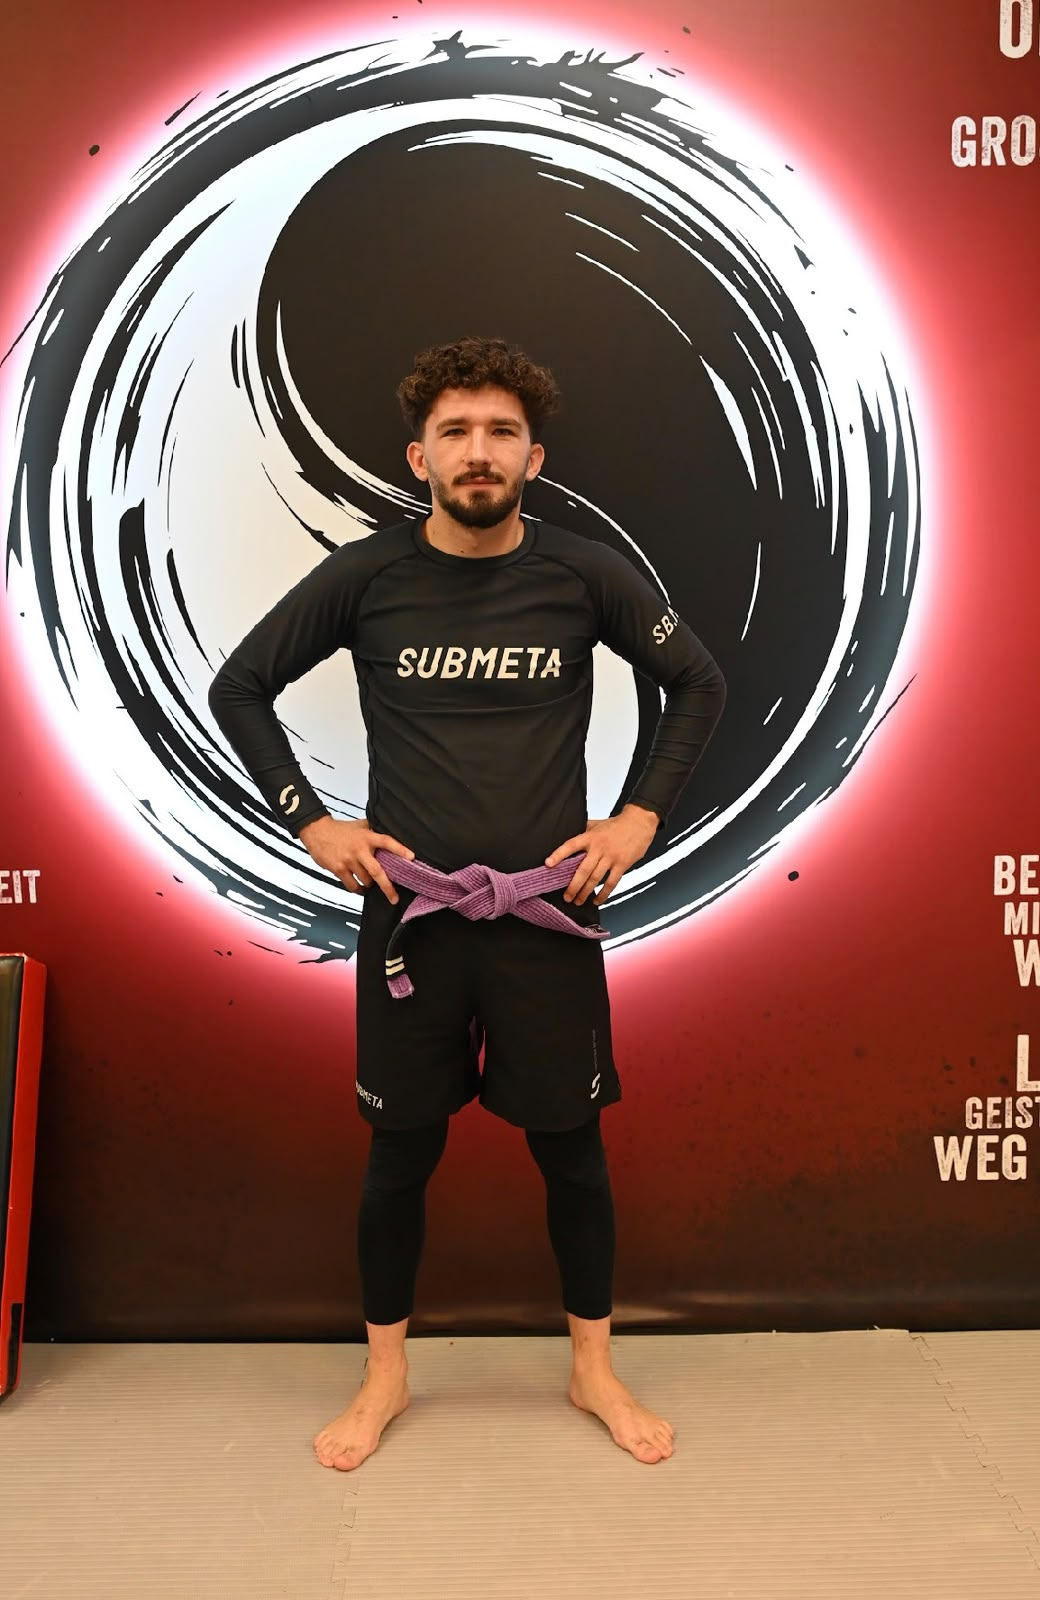
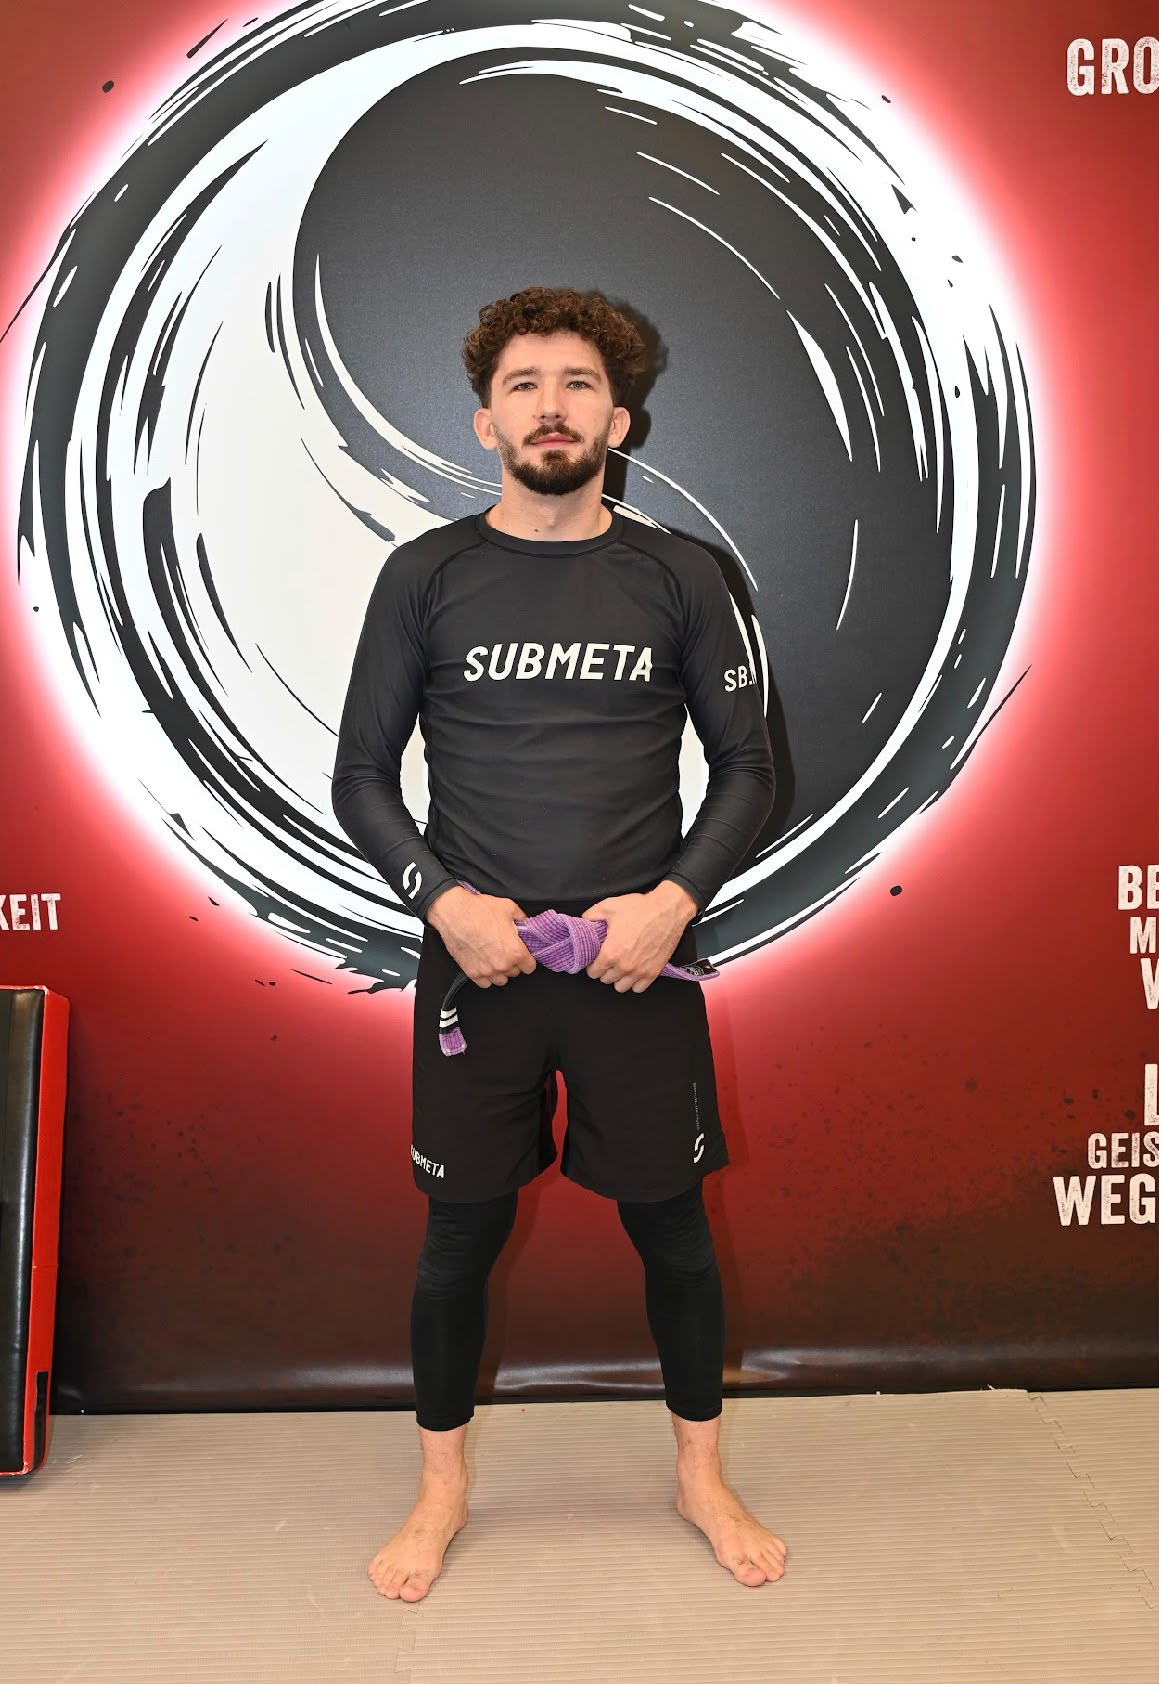
feat(programme+plan): echter Trainerplan, Stufen statt Gi/No-Gi, hellere Coach-Fotos
- Programme: sechs erfundene Kurse raus, neun echte rein (Anfängerkurs,
  Intermediate, Advanced Training, Ringen für BJJ, Sparring,
  Wettkampftraining, Fitness, Fitnessboxen, Open Mat). Kinder- und
  Frauenklasse entfernt — der Trainerplan hat beides nicht.
- Wochenplan: zwei Kursschienen pro Werktag (17:45–19:00 / 19:05–20:20)
  plus Open Mat am Samstag, je mit Kurznotiz. Die Legende sagt jetzt die
  Einstiegsstufe statt des Formats; Gi/No-Gi steht in der Notiz.
- Matte frei und Dehnen als Fußnote unter dem Plan, nicht als Zeilen —
  es sind keine Kurse.
- FAQ und SEO-Keywords entsprechend nachgezogen.
- Coach-Fotos Ervin und Liri gegen die helleren Aufnahmen getauscht.

Claude-Session: https://claude.ai/code/session_01ST7FeiZA5UtjpjXrkmcRCG

diff --git a/lib/config.ts b/lib/config.ts
@@ -82,108 +82,141 @@ export const reasons = [
  */
 export const programs = [
   {
-    title: "Fundamentals",
+    title: "Anfängerkurs",
     kanji: "基本",
-    level: "Weiß → Blau",
+    level: "Ohne Vorkenntnisse",
     blurb:
-      "Hier fängst du an. Vorkenntnisse braucht es keine.",
+      "Dienstag, im Gi. Hier fängst du an — Vorkenntnisse braucht es keine.",
     tag: "Einsteiger",
   },
   {
-    title: "Advanced Gi",
+    title: "Intermediate",
+    kanji: "中級",
+    level: "Ab Intermediate",
+    blurb:
+      "Donnerstag, im Gi. Baut direkt auf den Anfängerkurs auf.",
+    tag: "Aufbau",
+  },
+  {
+    title: "Advanced Training",
     kanji: "上級",
-    level: "Ab Blau",
+    level: "Ab Advanced",
     blurb:
-      "Systeme, harte Runden, ein schärferes A-Game.",
-    tag: "Alle Gürtel",
+      "Mittwoch No-Gi, Freitag Gi. Systeme, harte Runden, ein schärferes A-Game.",
+    tag: "Fortgeschritten",
   },
   {
-    title: "No-Gi / Grappling",
-    kanji: "寝技",
-    level: "Alle Stufen",
+    title: "Ringen für BJJ",
+    kanji: "立技",
+    level: "Ab Intermediate",
     blurb:
-      "Schnell und modern. Wrestling, Scrambles, Leg Locks.",
-    tag: "Alle Stufen",
+      "Montag. Takedowns, Griffkampf, der Weg zu Boden.",
+    tag: "Standkampf",
   },
   {
-    title: "Wettkampfteam",
+    title: "Sparring",
+    kanji: "乱取",
+    level: "Ab Intermediate",
+    blurb:
+      "Montag nur Rollen, Dienstag freies Positionssparring. Kein Unterricht, nur Mattenzeit.",
+    tag: "Rollen",
+  },
+  {
+    title: "Wettkampftraining",
     kanji: "試合",
-    level: "Auf Einladung",
+    level: "Ab Advanced",
     blurb:
-      "Camps, harte Runden, Podeste.",
+      "Mittwoch. Für Turnierkämpfer und das Team.",
     tag: "Athleten",
   },
   {
-    title: "Kinder & Jugend",
-    kanji: "少年",
-    level: "4 bis 15 Jahre",
-    blurb:
-      "Selbstvertrauen, Disziplin, kein Mobbing.",
-    tag: "Jugend",
-  },
-  {
-    title: "Frauenklasse",
-    kanji: "女子",
+    title: "Fitness",
+    kanji: "体力",
     level: "Alle Stufen",
     blurb:
-      "Nur Frauen. Selbstverteidigung im Kern.",
-    tag: "Nur Frauen",
+      "Donnerstag. Kraft und Kondition, ganz ohne Kampfsport.",
+    tag: "Kraft",
+  },
+  {
+    title: "Fitnessboxen",
+    kanji: "拳闘",
+    level: "Alle Stufen",
+    blurb:
+      "Freitag. Boxtechnik, Pratzen, Kondition.",
+    tag: "Boxen",
+  },
+  {
+    title: "Open Mat",
+    kanji: "自由",
+    level: "Alle Stufen",
+    blurb:
+      "Samstag, Gi und No-Gi. Freies Rollen für alle, kein Unterricht.",
+    tag: "Samstag",
   },
 ] as const;
 
 export type ScheduleClass = {
   time: string;
   name: string;
-  kind: "gi" | "nogi" | "kids" | "open";
+  /** Einzeiler unter dem Namen — Format, Inhalt, Zielgruppe. */
+  note?: string;
+  kind: "anfaenger" | "intermediate" | "advanced" | "fitness" | "boxen";
 };
+
+/**
+ * Der Wochenplan, wie ihn der Trainer aufgestellt hat.
+ *
+ * Zwei Kursschienen pro Werktag (17:45–19:00 und 19:05–20:20) plus Open Mat
+ * am Samstag. `kind` ist KEIN Format mehr (Gi/No-Gi), sondern die EINSTIEGS-
+ * STUFE: die Farbe sagt, ab welchem Level man in der Einheit richtig ist.
+ * Ob Gi oder No-Gi steht in `note`, weil es die zweite Frage ist, nicht die
+ * erste.
+ *
+ * Matte frei ab 16:30 (Di/Do 16:45) und Dehnen 17:15 (Mo/Mi/Fr) stehen
+ * bewusst NICHT als Zeilen hier: es sind keine Kurse, sondern offene Zeit vor
+ * dem Training. Sie laufen als Fußnote unter dem Plan — siehe
+ * components/schedule.tsx.
+ */
 export const schedule: { day: string; classes: ScheduleClass[] }[] = [
   {
     day: "Mo",
     classes: [
-      { time: "07:00", name: "Morning Gi", kind: "gi" },
-      { time: "17:30", name: "Kids", kind: "kids" },
-      { time: "19:00", name: "Fundamentals", kind: "gi" },
-      { time: "20:15", name: "Advanced Gi", kind: "gi" },
+      { time: "17:45–19:00", name: "Ringen für BJJ", note: "Takedowns & Standkampf", kind: "intermediate" },
+      { time: "19:05–20:20", name: "Sparring only", note: "Nur Rollen, kein Unterricht", kind: "intermediate" },
     ],
   },
   {
     day: "Di",
     classes: [
-      { time: "12:00", name: "No-Gi Lunch", kind: "nogi" },
-      { time: "18:00", name: "Women's Class", kind: "gi" },
-      { time: "19:30", name: "No-Gi", kind: "nogi" },
+      { time: "17:45–19:00", name: "Anfängerkurs", note: "Gi · für alle ohne Vorkenntnisse", kind: "anfaenger" },
+      { time: "19:05–20:20", name: "Special Tuesday", note: "Freies Positionssparring", kind: "intermediate" },
     ],
   },
   {
     day: "Mi",
     classes: [
-      { time: "07:00", name: "Morning Gi", kind: "gi" },
-      { time: "17:30", name: "Kids", kind: "kids" },
-      { time: "19:00", name: "Fundamentals", kind: "gi" },
-      { time: "20:15", name: "Competition", kind: "nogi" },
+      { time: "17:45–19:00", name: "Advanced Training", note: "No-Gi", kind: "advanced" },
+      { time: "19:05–20:20", name: "Wettkampftraining", note: "Turnierkämpfer & Team", kind: "advanced" },
     ],
   },
   {
     day: "Do",
     classes: [
-      { time: "12:00", name: "No-Gi Lunch", kind: "nogi" },
-      { time: "19:00", name: "Advanced Gi", kind: "gi" },
-      { time: "20:15", name: "Open Mat", kind: "open" },
+      { time: "17:45–19:00", name: "Fitness", note: "Kraft & Kondition, ohne Kampfsport", kind: "fitness" },
+      { time: "19:05–20:20", name: "Intermediate", note: "Gi · Aufbau auf den Anfängerkurs", kind: "intermediate" },
     ],
   },
   {
     day: "Fr",
     classes: [
-      { time: "17:30", name: "Kids", kind: "kids" },
-      { time: "19:00", name: "Fundamentals", kind: "gi" },
-      { time: "20:15", name: "No-Gi", kind: "nogi" },
+      { time: "17:45–19:00", name: "Advanced Training", note: "Gi", kind: "advanced" },
+      { time: "19:05–20:20", name: "Fitnessboxen", note: "Boxtechnik, Pratzen & Kondition", kind: "boxen" },
     ],
   },
   {
     day: "Sa",
     classes: [
-      { time: "10:00", name: "Competition", kind: "nogi" },
-      { time: "11:30", name: "Open Mat", kind: "open" },
+      { time: "11:00–12:30", name: "Open Mat", note: "Gi & No-Gi · freies Rollen für alle", kind: "anfaenger" },
     ],
   },
 ];
@@ -236,7 +269,7 @@ export const faqs = [
   {
     question: "Ich habe noch nie trainiert. Ist das ein Problem?",
     answer:
-      "Im Gegenteil, das ist der Normalfall. Die Fundamentals-Stunden sind für komplette Anfänger gebaut. Du bekommst geduldige Trainingspartner und wirst am ersten Tag in kein hartes Sparring geworfen.",
+      "Im Gegenteil, das ist der Normalfall. Der Anfängerkurs am Dienstag ist für komplette Anfänger gebaut. Du bekommst geduldige Trainingspartner und wirst am ersten Tag in kein hartes Sparring geworfen.",
   },
   {
     question: "Was brauche ich für die erste Einheit?",
@@ -249,9 +282,9 @@ export const faqs = [
       "Nein. Jiu-Jitsu bringt dich in Form, nicht umgekehrt. Du bestimmst das Tempo, und jede Runde holt dich dort ab, wo du gerade stehst.",
   },
   {
-    question: "Ab welchem Alter dürfen Kinder mittrainieren?",
+    question: "Wann kann ich als Anfänger einsteigen?",
     answer:
-      "Kinder & Jugend läuft von 4 bis 15, in altersgerechten Gruppen mit eigenen Jugendtrainern.",
+      "Am Dienstag um 17:45 im Anfängerkurs. Ab dann bist du auch beim Intermediate am Donnerstag richtig, das baut direkt darauf auf. Die Matte ist übrigens schon ab 16:30 offen, wenn du vorher selbst drillen willst.",
   },
   {
     question: "Gibt es einen langen Vertrag?",

diff --git a/components/schedule.tsx b/components/schedule.tsx
@@ -37,11 +37,26 @@ import { KanjiLabel } from "@/components/kanji-label";
 import StaggeredText from "@/components/staggered-text";
 import ClickStack, { type ClickStackHandle } from "@/components/click-stack";
 
+/**
+ * Die Legende sagt jetzt die EINSTIEGSSTUFE, nicht das Format.
+ *
+ * Vorher standen hier Gi / No-Gi / Kids / Open Mat. Das beantwortet die
+ * zweite Frage ("was ziehe ich an") und nicht die erste ("darf ich da
+ * überhaupt hin"). Der Trainerplan ist nach Stufen gebaut, also ist die
+ * Seite es jetzt auch: die Farbe am linken Rand einer Einheit sagt, ab
+ * welchem Level sie offen ist. Gi oder No-Gi steht als Notiz in der Zeile.
+ *
+ * Die drei BJJ-Stufen steigen in der Hitze der Palette an (Gold → Ember →
+ * Zinnober). Fitness und Fitnessboxen sind kein BJJ und bekommen deshalb
+ * bewusst kühle, entsättigte Töne — sie sollen sich aus der Stufenleiter
+ * herausheben, nicht in ihr einsortiert wirken.
+ */
 const KIND: Record<ScheduleClass["kind"], { label: string; tone: string }> = {
-  gi:   { label: "Gi",       tone: "var(--accent)" },
-  nogi: { label: "No-Gi",    tone: "var(--ember)" },
-  kids: { label: "Kids",     tone: "var(--gold)" },
-  open: { label: "Open Mat", tone: "var(--muted-foreground)" },
+  anfaenger:    { label: "ab Anfänger",     tone: "var(--gold)" },
+  intermediate: { label: "ab Intermediate", tone: "var(--ember)" },
+  advanced:     { label: "ab Advanced",     tone: "var(--accent)" },
+  fitness:      { label: "Fitness",         tone: "#6f8f8a" },
+  boxen:        { label: "Fitnessboxen",    tone: "#6d7f96" },
 };
 
 const DAY_JP: Record<string, string> = {
@@ -92,7 +107,7 @@ function DayCard({ col }: { col: (typeof schedule)[number] }) {
           return (
             <div
               key={`${c.time}-${j}`}
-              className="flex flex-col gap-0.5 px-4 py-2.5"
+              className="flex flex-col gap-0.5 px-4 py-3.5"
               style={{
                 borderLeft: `2px solid ${k.tone}`,
                 marginLeft: "1px",
@@ -105,8 +120,16 @@ function DayCard({ col }: { col: (typeof schedule)[number] }) {
               >
                 {c.time}
               </span>
-              <span className="text-foreground/80 text-xs leading-snug">
+              <span className="text-foreground/85 text-sm leading-snug font-medium">
                 {c.name}
+              </span>
+              {c.note ? (
+                <span className="text-muted-foreground text-[11px] leading-snug">
+                  {c.note}
+                </span>
+              ) : null}
+              <span className="mt-1 text-[9px] font-medium uppercase tracking-[0.18em]" style={{ color: k.tone }}>
+                {k.label}
               </span>
             </div>
           );
@@ -271,6 +294,16 @@ function ScheduleStack({
       <p className="mt-2 text-center text-sm text-muted-foreground">
         {verb} Sie eine Karte oder einen Tag, um zu blättern.
       </p>
+
+      {/* Matte frei und Dehnen stehen absichtlich nicht als eigene Zeilen im
+          Plan: es sind keine Kurse, und als Zeitschienen wuerden sie jede
+          Tageskarte um die Haelfte verlaengern, um zweimal dasselbe zu sagen.
+          Als Fussnote sind sie einmal da und gelten fuer die ganze Woche. */}
+      <p className="mx-auto mt-6 max-w-md border-t border-border pt-4 text-center text-sm leading-relaxed text-foreground-dim">
+        Vor jedem Training ist die Matte frei zum Drillen — ab 16:30, dienstags
+        und donnerstags ab 16:45. Montag, Mittwoch und Freitag um 17:15
+        gemeinsames Dehnen für BJJ.
+      </p>
     </div>
   );
 }
@@ -292,7 +325,9 @@ function Intro({ headingClass }: { headingClass: string }): ReactNode {
         className={headingClass}
       />
       <p className="mt-5 text-lg leading-relaxed text-foreground-dim">
-        Sechs Tage, zwanzig Einheiten. In jede Fundamentals-Stunde kannst du einfach hereinkommen.
+        Zwei Kurse an jedem Werktag, dazu Open Mat am Samstag. Die Farbe sagt,
+        ab welchem Level eine Einheit offen ist — in den Anfängerkurs am
+        Dienstag kannst du ohne alles hereinkommen.
       </p>
       <div className="mt-8 flex flex-wrap gap-x-7 gap-y-3">
         {Object.entries(KIND).map(([key, k]) => (

diff --git a/components/features-6.tsx b/components/features-6.tsx
@@ -31,14 +31,27 @@ import {
 } from "react";
 import { createPortal } from "react-dom";
 import { motion, AnimatePresence } from "motion/react";
-import { Shield, Swords, Dumbbell, Trophy, Users, Heart } from "lucide-react";
+import { Shield, TrendingUp, Swords, Hand, Flame, Trophy, Dumbbell, Target, Users } from "lucide-react";
 import type { LucideIcon } from "lucide-react";
 import { KanjiLabel } from "@/components/kanji-label";
 import StaggeredText from "@/components/staggered-text";
 import { programs } from "@/lib/config";
 import ModalCards, { type CardData } from "@/components/modal-cards";
 
-const ICONS: readonly LucideIcon[] = [Shield, Swords, Dumbbell, Trophy, Users, Heart];
+// Ein Symbol pro Programm, in der Reihenfolge von `programs` in lib/config.ts.
+// Wer dort eine Karte einfügt oder verschiebt, muss diese Liste mitziehen —
+// der Index ist die einzige Verbindung zwischen beiden.
+const ICONS: readonly LucideIcon[] = [
+  Shield,      // Anfängerkurs
+  TrendingUp,  // Intermediate
+  Swords,      // Advanced Training
+  Hand,        // Ringen für BJJ
+  Flame,       // Sparring
+  Trophy,      // Wettkampftraining
+  Dumbbell,    // Fitness
+  Target,      // Fitnessboxen
+  Users,       // Open Mat
+];
 
 const CARDS: CardData[] = programs.map((p, i) => ({
   id: String(i),

diff --git a/lib/metadata.ts b/lib/metadata.ts
@@ -20,7 +20,7 @@ export const siteConfig = {
     "No-Gi",
     "Kampfsport Graz",
     "Selbstverteidigung Graz",
-    "Kinder BJJ",
+    "Fitnessboxen Graz",
     "Wettkampfteam",
     "JJK",
   ],
